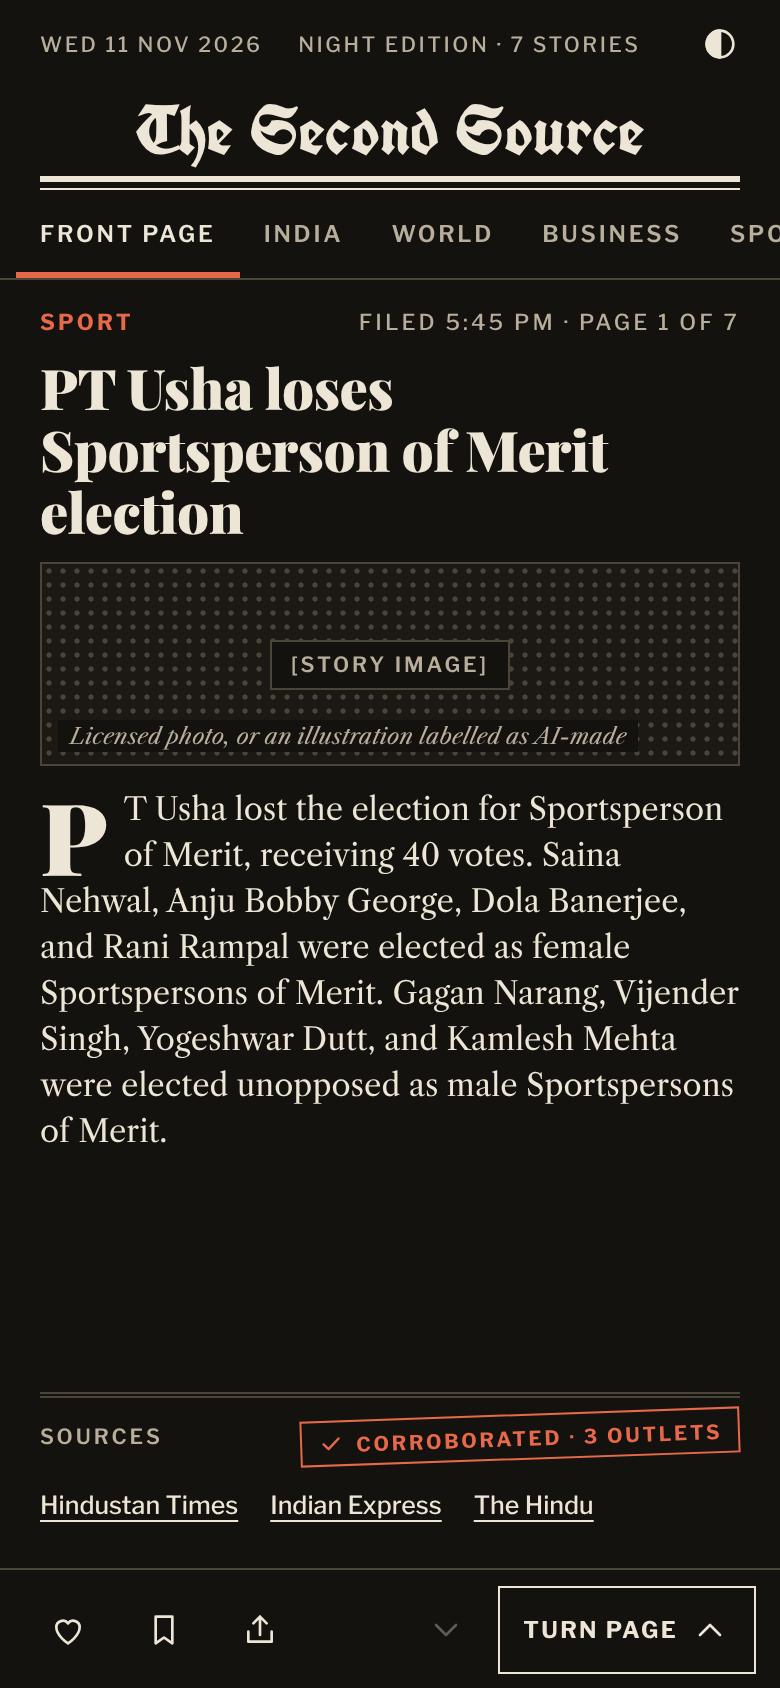
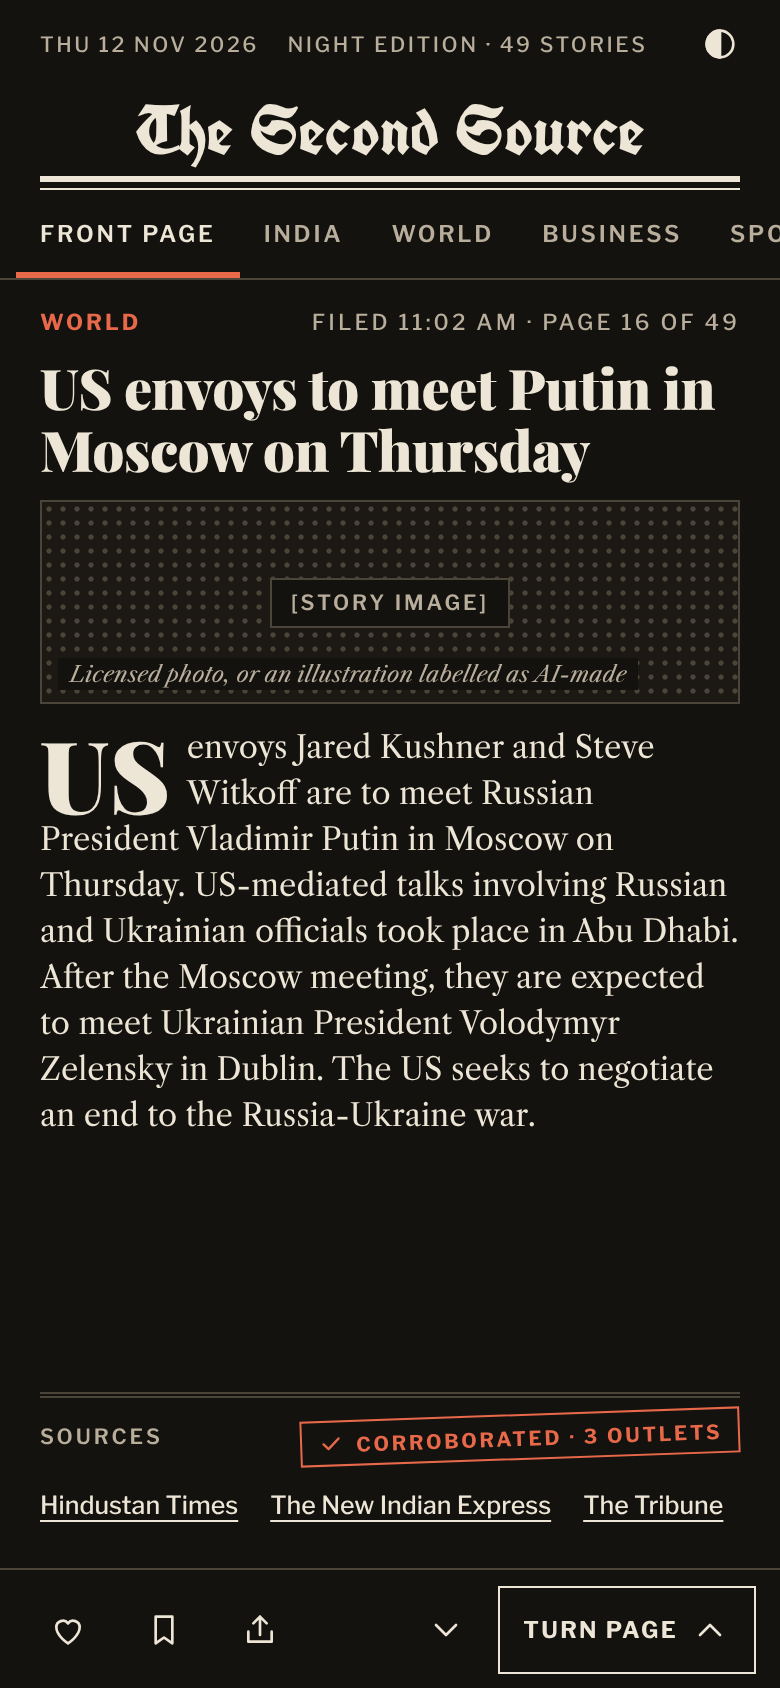
Thin fact sheets wait instead of failing the Rewrite Desk; quick plain retries; console fixes
Claude-Session: https://claude.ai/code/session_01FG6MYEdM8oAbEqxK3uUbu9

diff --git a/src/pipeline/sweep.ts b/src/pipeline/sweep.ts
@@ -10,9 +10,9 @@ import { checkDraft, copyDesk } from "./copyEditor";
 import { deskSorter } from "./deskSorter";
 import { factCheck, precheck } from "./factChecker";
 import { outletsBehind, pressDecision, readPressRules } from "./pressRoom";
-import { reviseDraft, writeDraft } from "./rewriteDesk";
+import { reviseDraft, ThinSheetError, writeDraft } from "./rewriteDesk";
 import { runStep, setEventStatus, writeStep } from "./runlog";
-import type { Ctx, EventRow, Fact } from "./types";
+import type { Ctx, Draft, EventRow, Fact } from "./types";
 import { wireScout } from "./wireScout";
 
 const MAX_STEP_FAILURES = 3;
@@ -71,10 +71,21 @@ export async function processEvent(ctx: Ctx, ev: EventRow): Promise<EventOutcome
     const desk = ev.desk as Desk;
 
     /* 4. Rewrite Desk */
+    const thin = (e: ThinSheetError) => `The ${facts.length} agreed facts are too thin for a 45-word item (best was ${e.words} words without padding); the story waits for more corroborated detail`;
     const first = await runStep(ctx, "Rewrite Desk", ev.id, async (meter) => {
-      const d = await writeDraft(ctx.llm, meter, desk, facts, disputed);
-      return { note: `Wrote "${d.headline}" (${d.headline.length} chars) and a ${wordCount(d.body)}-word body from ${facts.length} facts`, value: d };
+      try {
+        const d = await writeDraft(ctx.llm, meter, desk, facts, disputed);
+        return { note: `Wrote "${d.headline}" (${d.headline.length} chars) and a ${wordCount(d.body)}-word body from ${facts.length} facts`, value: d as Draft | null };
+      } catch (e) {
+        if (!(e instanceof ThinSheetError)) throw e;
+        return { note: thin(e), value: null };
+      }
     });
+    if (!first) {
+      // Hold rather than pad. A new report makes the facts stale again and the story gets another go.
+      setEventStatus(ctx, ev.id, "waiting", "thin_sheet", "Waiting: outlets agree on too little to write a full item; needs more corroborated detail", {}, "working");
+      return "waiting";
+    }
 
     /* 5. Copy Editor (one rewrite allowed) */
     const edited = await copyDesk(first, {
@@ -90,8 +101,14 @@ export async function processEvent(ctx: Ctx, ev: EventRow): Promise<EventOutcome
         }),
       rewrite: (draft, problems) =>
         runStep(ctx, "Rewrite Desk", ev.id, async (meter) => {
-          const d = await reviseDraft(ctx.llm, meter, desk, facts, draft, problems, disputed);
-          return { note: `Rewrote the copy to fix ${problems.length} unsupported sentence${problems.length > 1 ? "s" : ""}: "${d.headline}"`, value: d };
+          try {
+            const d = await reviseDraft(ctx.llm, meter, desk, facts, draft, problems, disputed);
+            return { note: `Rewrote the copy to fix ${problems.length} unsupported sentence${problems.length > 1 ? "s" : ""}: "${d.headline}"`, value: d };
+          } catch (e) {
+            if (!(e instanceof ThinSheetError)) throw e;
+            // Without the unsupported part there is not enough left to print: the Copy Editor's verdict stands.
+            return { note: `Could not fix it: without the unsupported part ${thin(e).replace(/^The/, "the")}`, value: draft };
+          }
         }),
     });
     if (!ours()) return "taken";

diff --git a/src/pipeline/rewriteDesk.ts b/src/pipeline/rewriteDesk.ts
@@ -1,6 +1,6 @@
 import { z } from "zod";
 import { DESK_LABELS, type Desk } from "@config/sources";
-import type { Llm, Meter } from "@/lib/llm";
+import { LlmStepError, type Llm, type Meter } from "@/lib/llm";
 import { splitSentences, wordCount } from "@/lib/text";
 import type { Draft, Fact } from "./types";
 
@@ -33,6 +33,28 @@ Format:
 - Plain text only: no markdown, no quotation marks unless the sheet quotes.
 Return {"headline":"...","body":"..."}.`;
 
+/**
+ * The fact sheet does not hold enough agreed fact to fill the minimum length,
+ * and the desk will not pad. Not a failure: the story waits for more.
+ */
+export class ThinSheetError extends Error {
+  constructor(public words: number) {
+    super(`could not write ${BODY_MIN_WORDS} words from the fact sheet without padding (best was ${words})`);
+    this.name = "ThinSheetError";
+  }
+}
+
+/** Run a drafting call; if it ends because every attempt came up short, say so as ThinSheetError. */
+async function drafting(call: () => Promise<Draft>): Promise<Draft> {
+  try {
+    return await call();
+  } catch (e) {
+    const short = e instanceof LlmStepError ? /body is (\d+) words/.exec(e.message) : null;
+    if (short && Number(short[1]) < BODY_MIN_WORDS) throw new ThinSheetError(Number(short[1]));
+    throw e;
+  }
+}
+
 export function lengthProblem(d: Draft): string | null {
   const h = d.headline.trim().length;
   if (h > HEADLINE_MAX) return `headline is ${h} characters; the limit is ${HEADLINE_MAX}`;
@@ -52,7 +74,7 @@ export const sheetText = (facts: Fact[], disputed: string[] = []) =>
 const clean = (d: Draft): Draft => ({ headline: d.headline.trim().replace(/\.$/, ""), body: d.body.replace(/\s+/g, " ").trim() });
 
 export async function writeDraft(llm: Llm, meter: Meter, desk: Desk, facts: Fact[], disputed: string[] = []): Promise<Draft> {
-  const d = await llm.json({
+  const d = await drafting(() => llm.json({
     tier: "strong",
     system: SYSTEM,
     user: `Desk: ${DESK_LABELS[desk]}\n\nFACT SHEET\n${sheetText(facts, disputed)}`,
@@ -60,7 +82,8 @@ export async function writeDraft(llm: Llm, meter: Meter, desk: Desk, facts: Fact
     check: (v) => lengthProblem(clean(v)),
     meter,
     maxTokens: 6000,
-  });
+    retryLight: true,
+  }));
   return clean(d);
 }
 
@@ -74,7 +97,7 @@ export async function reviseDraft(
   problems: { sentence: string; problem: string }[],
   disputed: string[] = [],
 ): Promise<Draft> {
-  const d = await llm.json({
+  const d = await drafting(() => llm.json({
     tier: "strong",
     system: SYSTEM,
     user:
@@ -87,6 +110,7 @@ export async function reviseDraft(
     check: (v) => lengthProblem(clean(v)),
     meter,
     maxTokens: 6000,
-  });
+    retryLight: true,
+  }));
   return clean(d);
 }

diff --git a/tests/world.ts b/tests/world.ts
@@ -18,7 +18,7 @@ export const article = (url: string, author: string | null, claims: string[]) =>
 export const BRIDGE = ["The Kosi bridge opened on Tuesday.", "The bridge is four kilometres long.", "The chief minister opened the bridge."];
 export const DAM = ["The Tehri dam gates were opened on Monday.", "Officials said water levels were safe.", "Two villages were alerted."];
 
-export function world(feeds: Record<string, FeedItem[]>, opts: { unsupported?: string[]; roles?: string[] } = {}) {
+export function world(feeds: Record<string, FeedItem[]>, opts: { unsupported?: string[]; roles?: string[]; shortBody?: boolean } = {}) {
   const llm = scriptedLlm((system, user) => {
     if (system.startsWith("You sort incoming")) {
       return { items: user.split("\n").map((_, i) => ({ i, desk: "india", kind: "event" })) };
@@ -42,6 +42,7 @@ export function world(feeds: Record<string, FeedItem[]>, opts: { unsupported?: s
       return { facts: [...byText].map(([text, support], i) => ({ text, support, role: opts.roles?.[i] ?? (i === 0 ? "core" : "supporting") })), conflicts: [] };
     }
     if (system.startsWith("You are the rewrite desk")) {
+      if (opts.shortBody) return { headline: "Kosi bridge opens to traffic", body: `The Kosi bridge opened on Tuesday. Then ${words(20)}.` };
       return { headline: "Kosi bridge opens to traffic", body: `The Kosi bridge opened on Tuesday. Then ${words(21)}. Later ${words(21)}.` };
     }
     if (system.startsWith("You are the copy editor")) {

diff --git a/tests/iteration2.test.ts b/tests/iteration2.test.ts
@@ -221,6 +221,24 @@ describe("copy shape", () => {
   });
 });
 
+describe("a fact sheet too thin to fill 45 words", () => {
+  it("makes the story wait; it is neither padded, printed, nor counted as a failure", async () => {
+    const db = openDb(":memory:");
+    const feeds = {
+      [feedUrl("toi")]: [item(article("https://toi.example/bridge", "Staff A", BRIDGE), "Kosi bridge opens")],
+      [feedUrl("ht")]: [item(article("https://ht.example/bridge-x", "Staff B", BRIDGE), "Kosi bridge inaugurated")],
+    };
+    const summary = await sweep({ db, ...world(feeds, { shortBody: true }) });
+    expect(summary).toMatchObject({ printed: 0, failed: 0, backToWaiting: 1 });
+    expect(db.prepare("SELECT status, status_reason, fail_count FROM events").get()).toMatchObject({ status: "waiting", status_reason: "thin_sheet", fail_count: 0 });
+    const step = db.prepare("SELECT status, note, llm_calls FROM steps WHERE agent = 'Rewrite Desk'").get() as { status: string; note: string; llm_calls: number };
+    expect(step.status).toBe("ok");
+    expect(step.note).toMatch(/too thin for a 45-word item \(best was 27 words/);
+    expect(step.llm_calls).toBe(3); // one try and two retries, as everywhere
+    expect(getPrintedStories(db)).toEqual([]);
+  });
+});
+
 describe("conflict notes", () => {
   it("name outlets, never internal claim ids", () => {
     const name = (i: number) => ["The Hindu", "Hindustan Times", "NDTV", "Times of India"][i - 1];

diff --git a/src/lib/llm.ts b/src/lib/llm.ts
@@ -41,6 +41,12 @@ export interface JsonRequest<T> {
   maxTokens?: number;
   /** Plain extraction work: run the tier without extended reasoning (faster, cheaper). */
   light?: boolean;
+  /**
+   * Retry without extended reasoning. For tasks where a rejected reply needs a
+   * small, exact correction ("62 words; must be 45 to 60") rather than more
+   * thought: the model otherwise spends its whole budget deliberating.
+   */
+  retryLight?: boolean;
 }
 
 /** The only thing the pipeline stages know about the model. Tests fake this. */
@@ -90,7 +96,7 @@ export function makeLlm(complete: Complete, priceOf: (model: string) => Price | 
       for (let attempt = 1; attempt <= MAX_ATTEMPTS; attempt++) {
         let reply: RawCompletion;
         try {
-          reply = await complete({ tier: req.tier, messages, maxTokens: req.maxTokens ?? 4000, light: req.light });
+          reply = await complete({ tier: req.tier, messages, maxTokens: req.maxTokens ?? 4000, light: req.light || (req.retryLight && attempt > 1) });
         } catch (e) {
           lastProblem = `API error: ${oneLine(String((e as Error)?.message ?? e), 160)}`;
           continue;

diff --git a/src/lib/console.ts b/src/lib/console.ts
@@ -62,8 +62,11 @@ function submissionView(db: Db, s: { id: number; input: string; kind: string; de
   const title = ev.headline ?? ev.label;
   if (ev.status === "waiting") {
     const single = /independent (outlet|source)/.test(ev.status_note ?? "") || /only corroboration/.test(ev.status_note ?? "");
+    if (/only corroboration/.test(ev.status_note ?? "")) {
+      return { ...base, state: "waiting_second_outlet", line: "Waiting for a content outlet. So far only corroboration-only outlets have reported it; it prints once Times of India, Hindustan Times or Indian Express does too." };
+    }
     return single
-      ? { ...base, state: "waiting_second_outlet", line: `Waiting for a second outlet. ${ev.status_note ?? ""} It prints only when a second independent outlet reports it.` }
+      ? { ...base, state: "waiting_second_outlet", line: `Waiting for a second outlet. ${(ev.status_note ?? "").replace(/^Waiting: /, "")}. It prints only when a second independent outlet reports it.` }
       : { ...base, state: "waiting", line: ev.status_note ?? "Waiting." };
   }
   const lines: Record<string, string> = {
